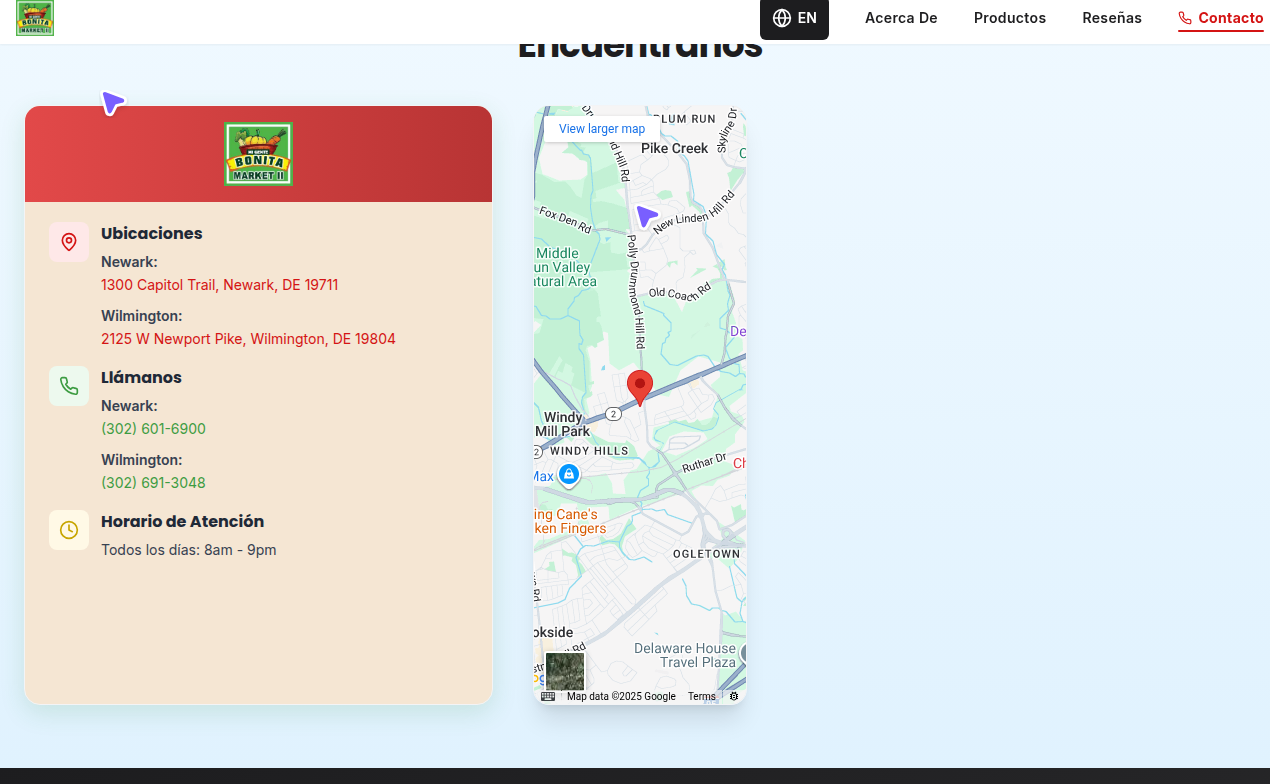
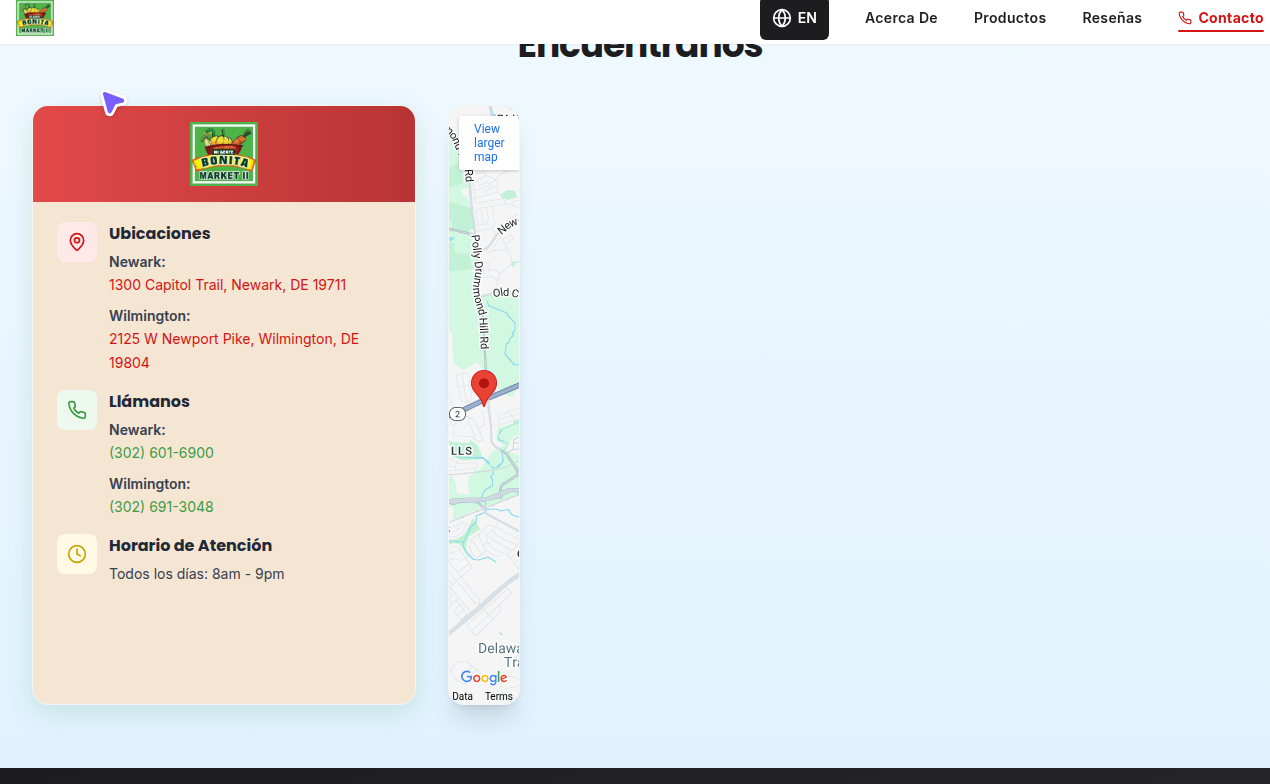
Improve map display to fill available horizontal space next to contact info
Adjust grid layout in Contact component to make map element span 8 columns (lg:col-span-8) out of 12, and contact info span 4 columns (lg:col-span-4), thus increasing the map's horizontal width.

Replit-Commit-Author: Agent
Replit-Commit-Session-Id: 796c2482-f0ae-4a88-ac1e-103eb9ba14b8
Replit-Commit-Checkpoint-Type: full_checkpoint
Replit-Commit-Screenshot-Url: https://storage.googleapis.com/screenshot-production-us-central1/88ed462c-fe7e-41e9-98e0-0dbc3e5142fd/796c2482-f0ae-4a88-ac1e-103eb9ba14b8/lL8LEAO

Changed region(s): [[0.0, 0.1224, 0.6142, 0.9184], [0.1228, 0.1531, 0.2457, 0.2449], [0.522, 0.6429, 0.5835, 0.7347]]

diff --git a/client/src/components/Contact.tsx b/client/src/components/Contact.tsx
@@ -10,7 +10,7 @@ const Contact = () => {
     <>
       <section id="contact" className="pt-8 pb-24 md:pb-16 md:pt-10 zone-contact relative section-connector bg-[#F5E6D3]">
       
-      <div className="w-full mx-auto px-1 lg:px-4 xl:px-6">
+      <div className="w-full mx-auto px-1 lg:px-6 xl:px-8 2xl:px-12">
         <ScrollReveal direction="up" delay={0}>
           <div className="text-center mb-10">
             <h2 className="text-3xl md:text-4xl font-extrabold mb-3 text-[#1D1D1F]">
@@ -19,8 +19,8 @@ const Contact = () => {
           </div>
         </ScrollReveal>
         
-        <div className="grid grid-cols-1 lg:grid-cols-5 gap-10">
-          <ScrollReveal direction="left" delay={0.2} className="bg-[#F5E6D3] rounded-2xl shadow-mercado-green lg:col-span-2 overflow-hidden transform transition-all duration-300 hover:shadow-2xl border border-gray-100 flex flex-col h-auto min-h-[500px] md:h-[600px] azulejo-corner">
+        <div className="grid grid-cols-1 lg:grid-cols-12 gap-6 lg:gap-8">
+          <ScrollReveal direction="left" delay={0.2} className="bg-[#F5E6D3] rounded-2xl shadow-mercado-green lg:col-span-4 overflow-hidden transform transition-all duration-300 hover:shadow-2xl border border-gray-100 flex flex-col h-auto min-h-[500px] md:h-[600px] azulejo-corner">
             <div className="bg-gradient-to-r from-[#E24949] to-[#B83434] text-white p-4 flex justify-center items-center">
               <img 
                 src={logoImage}
@@ -110,8 +110,8 @@ const Contact = () => {
             </div>
           </ScrollReveal>
           
-          <ScrollReveal direction="right" delay={0.2}>
-            <div className="rounded-2xl overflow-hidden shadow-xl lg:col-span-3 border border-gray-100 relative h-[400px] sm:h-[500px] md:h-[600px] isolate">
+          <ScrollReveal direction="right" delay={0.2} className="lg:col-span-8">
+            <div className="rounded-2xl overflow-hidden shadow-xl border border-gray-100 relative h-[400px] sm:h-[500px] md:h-[600px] isolate">
             <iframe 
               src="https://maps.google.com/maps?q=1300+Capitol+Trail,+Newark,+DE+19711&t=&z=13&ie=UTF8&iwloc=&output=embed" 
               width="100%" 
